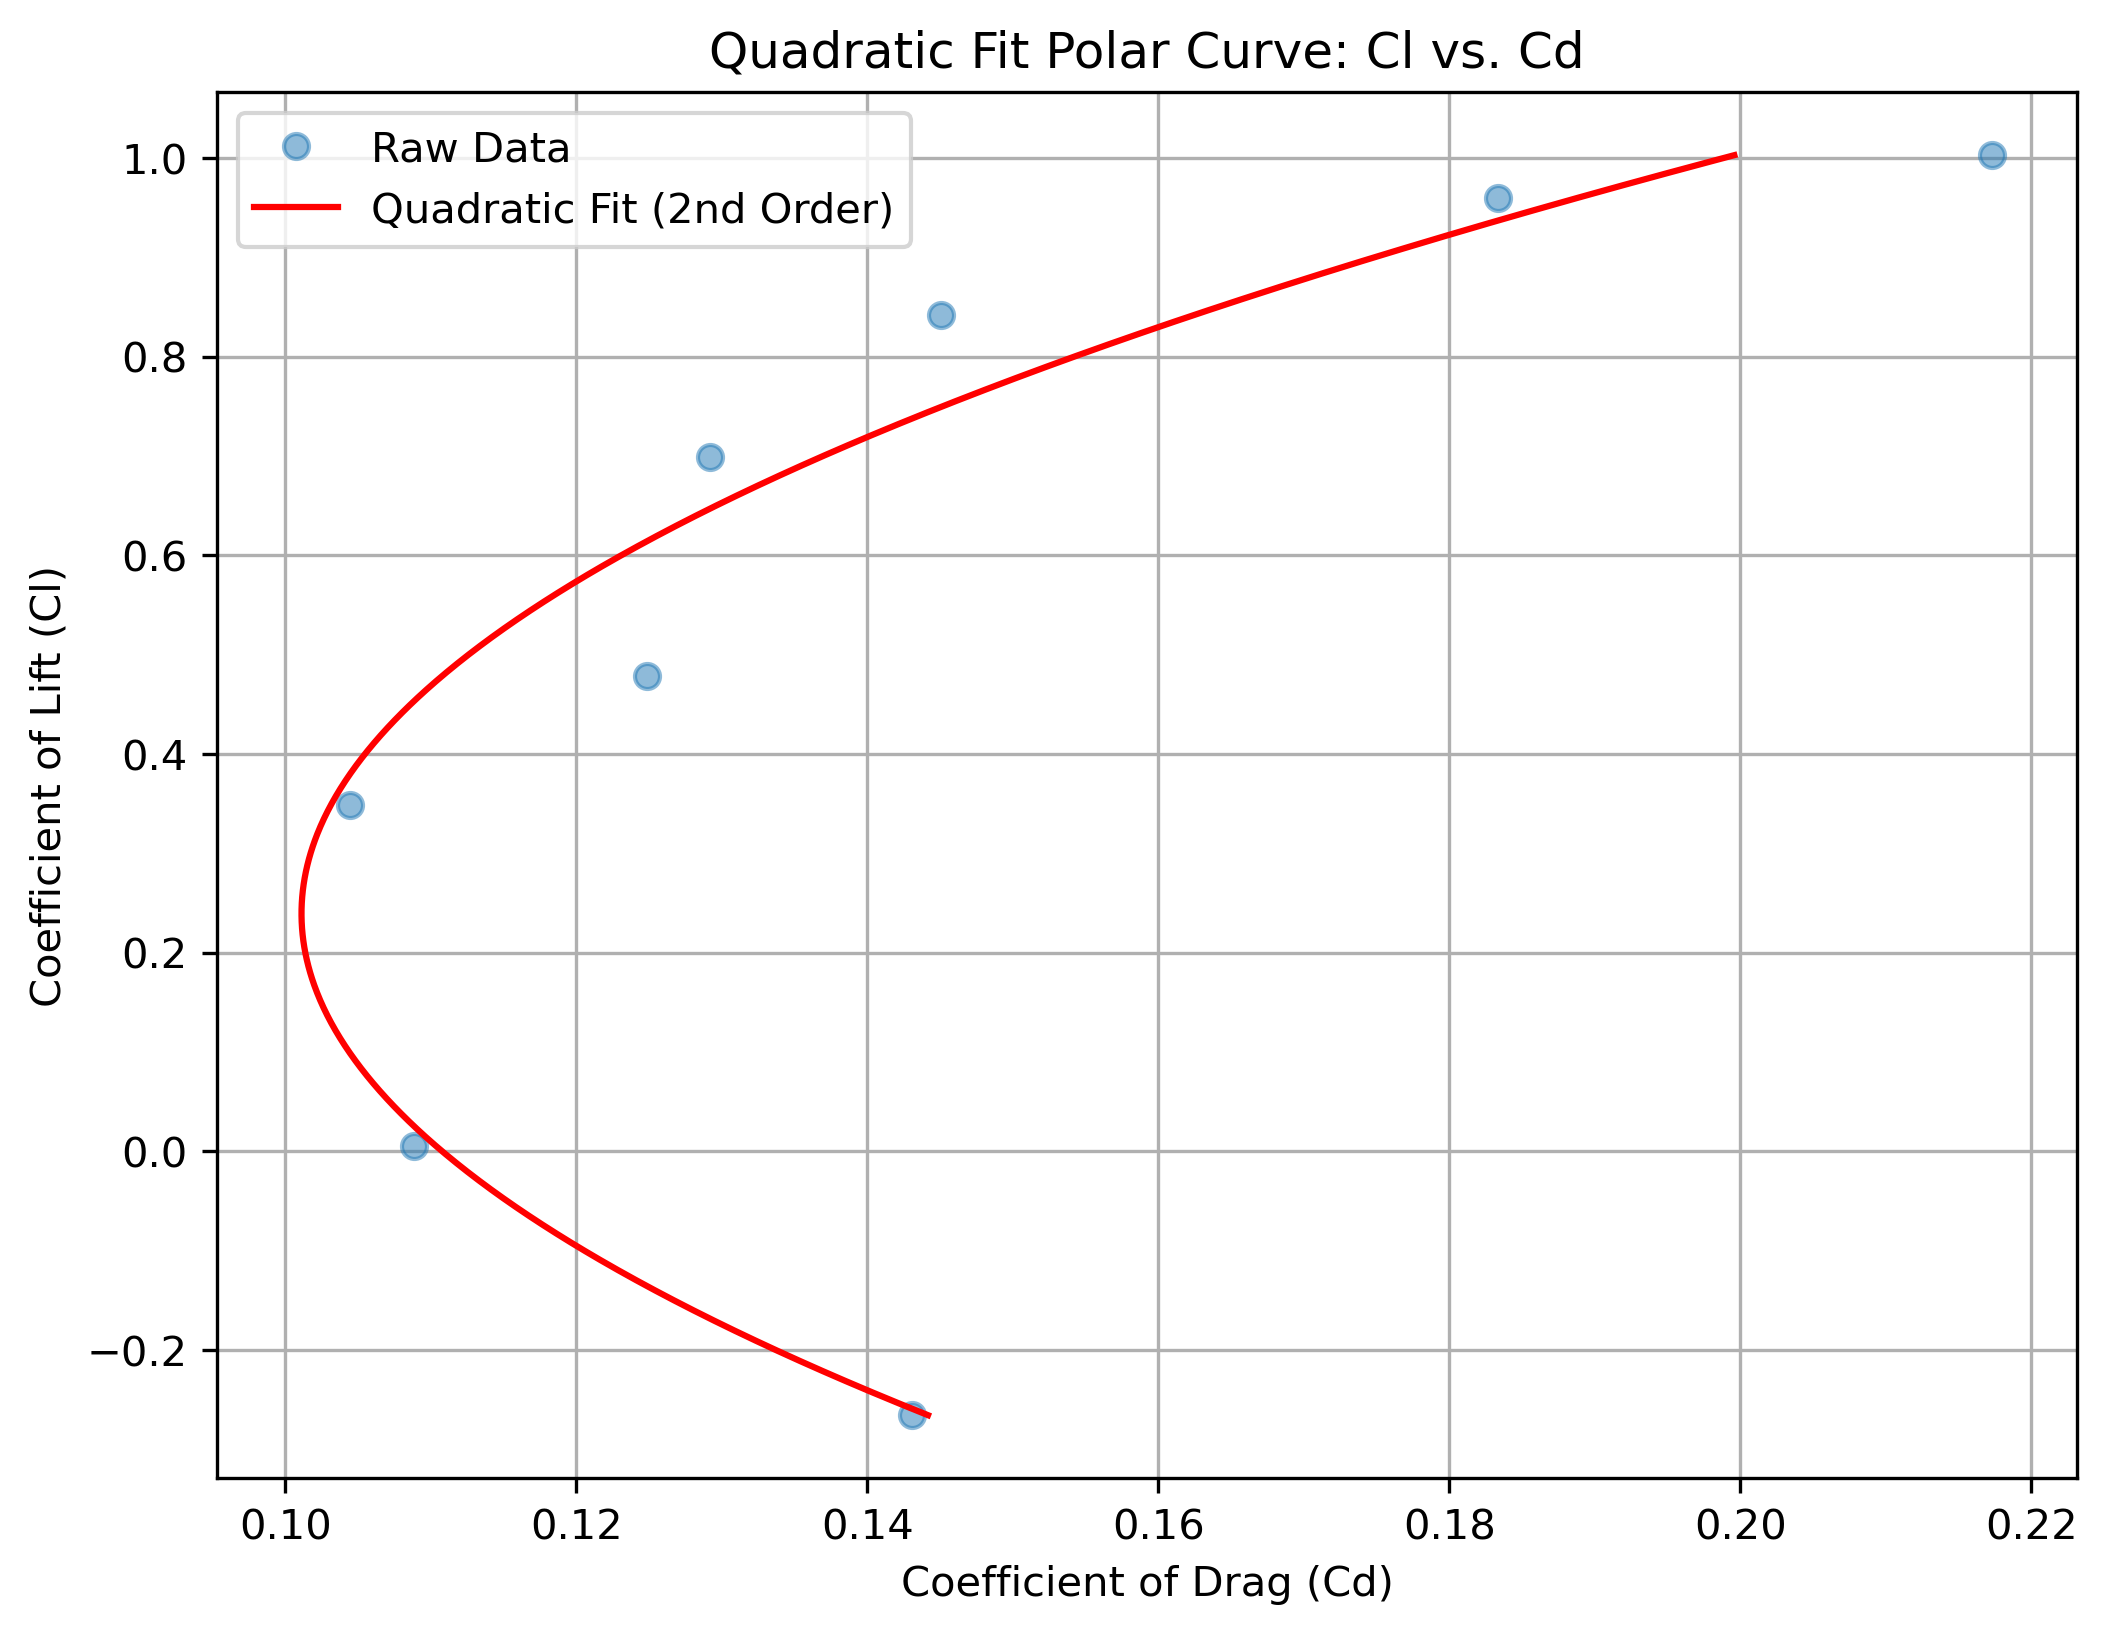
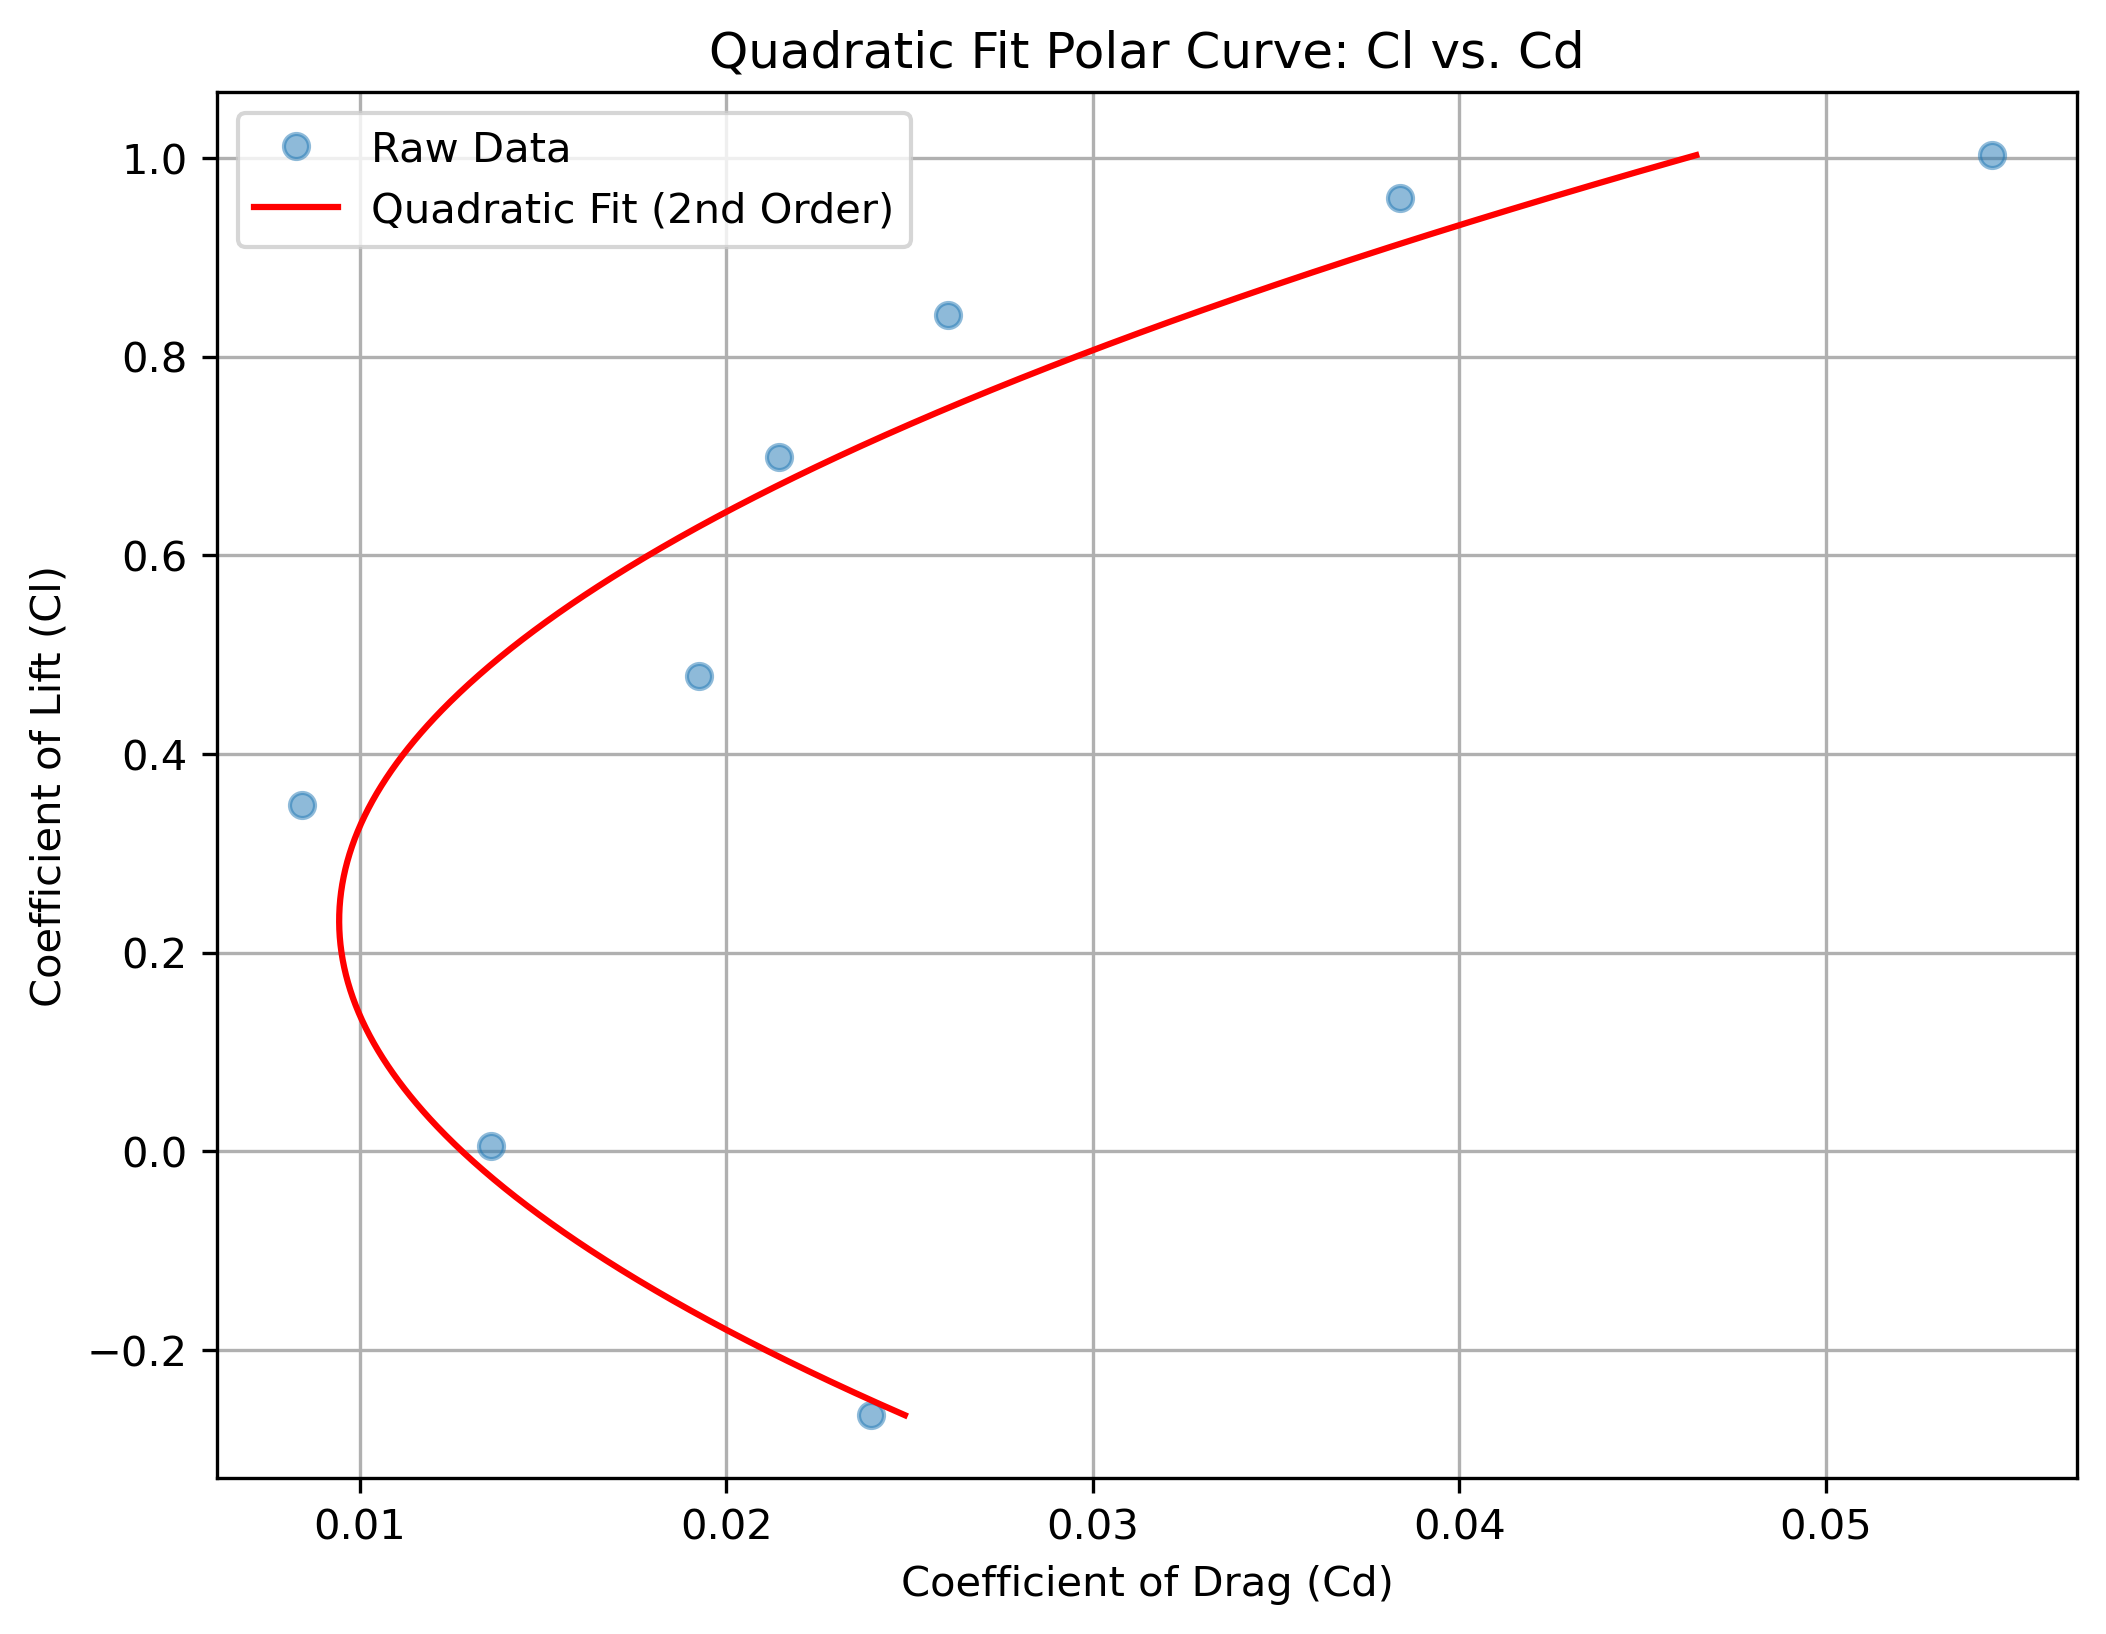
fixed errors, now good values with good formula

diff --git a/FInal2.0Var.py b/FInal2.0Var.py
@@ -257,8 +257,7 @@ for fname in os.listdir(data_dir):
     q_inf_all   = data[:, 1]
     q_loc_all   = data[:, 2]
 
-    # 3) Determine a single freestream dynamic pressure q∞
-    q_inf = q_inf_all.mean()   # scalar Pa
+    #
 
     # 4) Average q_loc at each unique z
     unique_z   = np.unique(z_mm)
@@ -266,8 +265,11 @@ for fname in os.listdir(data_dir):
                            for z in unique_z])
     z_m        = unique_z / 1000.0  # to meters
 
+   # Use the maximum measured dynamic pressure in the wake as q_infinity
+    q_inf = np.max(q_loc_all)
+
     # 5) Build the wake-deficit integrand: Δq(z) = q∞ – q(z)
-    integrand = q_inf - avg_q_loc   # [Pa]
+    integrand = np.sqrt(avg_q_loc/q_inf)-(avg_q_loc/q_inf)   # [Pa]
 
     # 6) Integrate Δq over z to get momentum deficit (Pa·m)
     momentum_deficit = np.trapz(integrand, z_m)
@@ -276,7 +278,7 @@ for fname in os.listdir(data_dir):
     D_prime = 2.0 * momentum_deficit
 
     # 8) 2D drag coefficient: C_D = D' / (q∞·c)
-    CD = D_prime / (q_inf * d)
+    CD = D_prime / ( d)
 
     CD_list.append(CD)
 
@@ -420,7 +422,7 @@ cd_interp = CubicSpline(alpha_cd_arr, cd_arr)
 
 # Define common fine alpha range for super interpolation
 alpha_fine = np.linspace(
-    max(min(alpha_cl_arr.min(), alpha_cd_arr.min()), -8),
+    max(min(alpha_cl_arr.min(), alpha_cd_arr.min()), -4),
     min(max(alpha_cl_arr.max(), alpha_cd_arr.max()), 10),
     2000
 )
